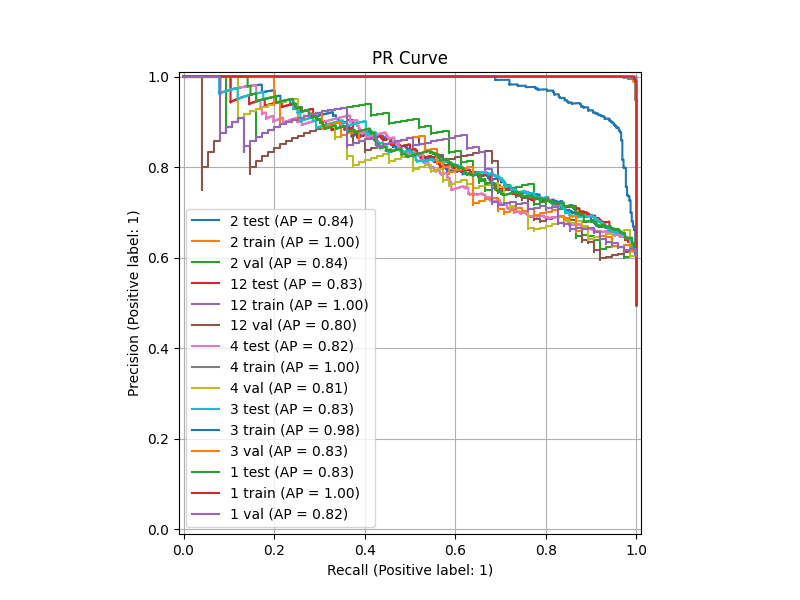
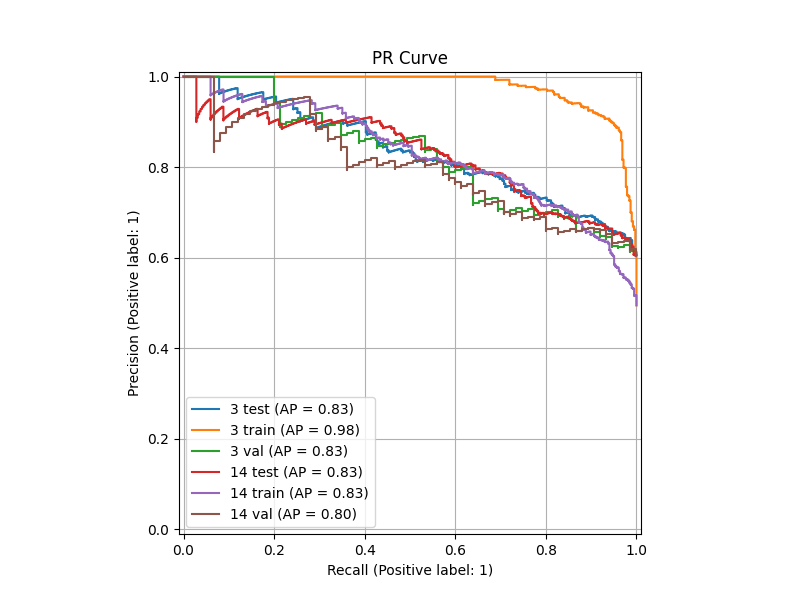
update model name

diff --git a/src/text_exp_transformers.py b/src/text_exp_transformers.py
@@ -650,9 +650,10 @@ save_experiment_predictions(root_folder="data/experiments/exp_3/",
                             column=None,
                             )
 
+# %%
 
 results, results_mean = calc_scores(root_folder="data/experiments/exp_3/",
-                                    plot_names=['12', '1', '2', '3', '4'])
+                                    plot_names=['14', '3'])
 
 top_names = results_mean.head(12).index.tolist()
 print(results_mean.to_markdown(tablefmt="github"))

diff --git a/README_SYSOEV.md b/README_SYSOEV.md
@@ -37,40 +37,32 @@
 
 ## 2026-02-14 Эксперименты с текстом из split/ (эмбеддинги + catboost)
 
-- Провел 11 экспериментов код `src/text_exp_transformers.py`
-- Лучший результат у эмбеддингов `michellejieli/emotion_text_classifier" + CatBoost (3)
+- Провел 14 экспериментов код `src/text_exp_transformers.py`
+- Лучший результат у эмбеддингов "j-hartmann/emotion-english-distilroberta-base" + Bagging of 20 CatBoost (14)
 - График PR ![](data/experiments/exp_3/chart.png)
 - Метрики экспериментов
 
 |   name |   f1_mean |   f1_std |   roc_mean |   roc_std |   pr_mean |   pr_std |
 |--------|-----------|----------|------------|-----------|-----------|----------|
-|      1 |    0.696  |   0.0285 |     0.7515 |    0.0108 |    0.8284 |   0.0093 |
-|      2 |    0.6871 |   0.0062 |     0.7582 |    0.0047 |    0.8369 |   0.0008 |
-|      9 |    0.686  |   0.0078 |     0.7506 |    0.011  |    0.8298 |   0.0082 |
+|     12 |    0.7037 |   0.0276 |     0.7442 |    0.0241 |    0.8178 |   0.0223 |
 |      3 |    0.6846 |   0.0023 |     0.7466 |    0.0195 |    0.83   |   0.0054 |
-|      4 |    0.6771 |   0.0102 |     0.7446 |    0.0001 |    0.8253 |   0.0062 |
 |     10 |    0.6686 |   0.0053 |     0.7434 |    0.0223 |    0.8267 |   0.0107 |
-
+|     14 |    0.6658 |   0.025  |     0.7352 |    0.0315 |    0.814  |   0.0175 |
 - Метрики по разбиениям
 
 |    |   name | dtype   |   thr |     f1 |    roc |     pr |
 |----|--------|---------|-------|--------|--------|--------|
-|  0 |      3 | test    |   0.5 | 0.6863 | 0.7604 | 0.8338 |
-|  1 |      2 | test    |   0.5 | 0.6828 | 0.7615 | 0.8375 |
-|  2 |      9 | test    |   0.5 | 0.6804 | 0.7584 | 0.8356 |
-|  3 |      1 | test    |   0.5 | 0.6759 | 0.7592 | 0.8349 |
-|  6 |      4 | test    |   0.5 | 0.6699 | 0.7447 | 0.8209 |
-| 12 |      1 | train   |   0.5 | 0.9961 | 1      | 1      |
-| 13 |      2 | train   |   0.5 | 0.9936 | 0.9998 | 0.9998 |
-| 17 |      9 | train   |   0.5 | 0.9202 | 0.9749 | 0.9773 |
-| 19 |      3 | train   |   0.5 | 0.9138 | 0.9753 | 0.9775 |
-| 21 |      4 | train   |   0.5 | 0.7168 | 0.8004 | 0.7856 |
-| 22 |      1 | val     |   0.5 | 0.7162 | 0.7439 | 0.8218 |
-| 23 |      2 | val     |   0.5 | 0.6915 | 0.7548 | 0.8363 |
-| 24 |      9 | val     |   0.5 | 0.6915 | 0.7429 | 0.824  |
-| 25 |      4 | val     |   0.5 | 0.6843 | 0.7445 | 0.8297 |
-| 26 |      3 | val     |   0.5 | 0.683  | 0.7328 | 0.8262 |
-
+|  1 |     12 | test    |   0.5 | 0.6842 | 0.7612 | 0.8336 |
+|  2 |     14 | test    |   0.5 | 0.6835 | 0.7575 | 0.8264 |
+|  7 |     10 | test    |   0.5 | 0.6724 | 0.7591 | 0.8342 |
+| 14 |     12 | train   |   0.5 | 1      | 1      | 1      |
+| 24 |      3 | train   |   0.5 | 0.9138 | 0.9753 | 0.9775 |
+| 25 |     10 | train   |   0.5 | 0.8596 | 0.9499 | 0.9533 |
+| 27 |     14 | train   |   0.5 | 0.7537 | 0.833  | 0.831  |
+| 28 |     12 | val     |   0.5 | 0.7232 | 0.7271 | 0.802  |
+| 32 |      3 | val     |   0.5 | 0.683  | 0.7328 | 0.8262 |
+| 36 |     10 | val     |   0.5 | 0.6649 | 0.7276 | 0.8191 |
+| 38 |     14 | val     |   0.5 | 0.6481 | 0.7129 | 0.8016 |
 
 
 ## 2026-02-08 Эксперименты с текстом из split-frames/ (! все кусочки разговора имеют одну метку)
